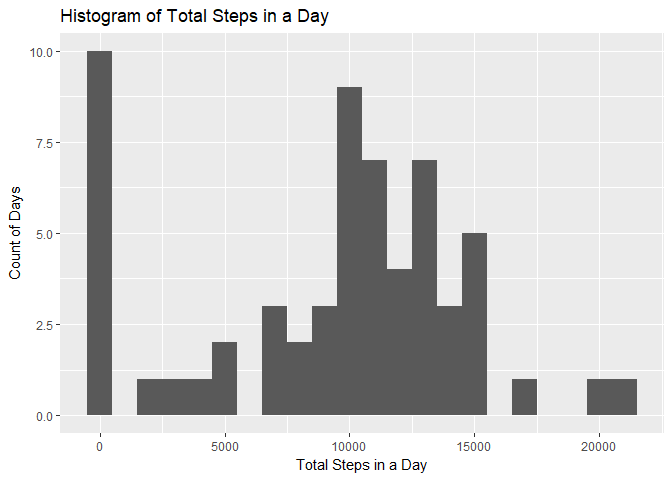
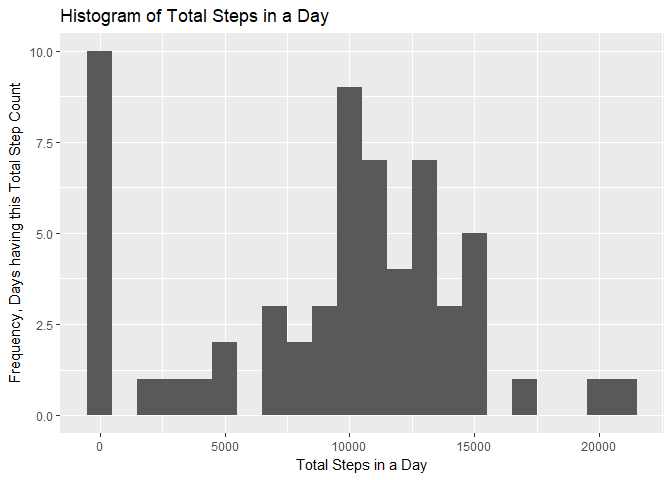
final commit
minor changes

Changed region(s): [[0.0, 0.1562, 0.0312, 0.8125]]

diff --git a/PA1_julieb.html b/PA1_julieb.html
@@ -152,10 +152,10 @@ names(sumsdf)&lt;- c(&quot;sums&quot;)
 c&lt;-ggplot(sumsdf, aes(sums))
 d&lt;- c+ geom_histogram(binwidth = 1000)
 d&lt;- d+ labs(x= &quot;Total Steps in a Day&quot;)
-d&lt;- d+ labs(y= &quot;Count of Days&quot;)
+d&lt;- d+ labs(y= &quot;Frequency, Days having this Total Step Count&quot;)
 d&lt;- d+ labs(title= &quot;Histogram of Total Steps in a Day&quot;)
 print(d)</code></pre>
[2 lines of base64/hex data omitted]
 <pre class="r"><code># report the summary of the daily totals
 summary(sumsdf)</code></pre>
 <pre><code>##       sums      
@@ -170,7 +170,7 @@ summary(sumsdf)</code></pre>
 <h2>What is the average daily activity pattern?</h2>
 <p>Sum the number of steps at each 5-minute interval across all days to see high activity periods. Make a time series plot of the 5-minute interval (x-axis) and the average number of steps taken, averaged across all days (y-axis).</p>
 <pre class="r"><code>#The steps per 5-minute interval are calculated.
-sm1&lt;- with(actdata, tapply(steps,interval,sum, na.rm=TRUE))
+sm1&lt;- with(actdata, tapply(steps,interval,mean, na.rm=TRUE))
 intsdf&lt;-data.frame(sm1)
 names(intsdf)&lt;- c(&quot;sums&quot;)
 intsdf&lt;- mutate(intsdf,minutes = 5*(1:nrow(intsdf)),interval = as.numeric(rownames(intsdf)))</code></pre>
@@ -181,7 +181,7 @@ d&lt;- d+ labs(x= &quot;Time of Day, minutes&quot;)
 d&lt;- d+ labs(y= &quot;Total Steps during an Interval&quot;)
 d&lt;- d+ labs(title= &quot;Daily Activity&quot;)
 print(d)</code></pre>
[2 lines of base64/hex data omitted]
 <pre class="r"><code>maxmin&lt;-with(intsdf, intsdf[which(sums == max(sums)),2])
 maxint&lt;-with(intsdf, intsdf[which(sums == max(sums)),3])</code></pre>
 <p>The 5-minute interval where the maximum average number of steps are taken is Interval: 835, (520 minutes).</p>
@@ -223,10 +223,10 @@ names(sumsdf)&lt;- c(&quot;sums&quot;)
 c&lt;-ggplot(sumsdf, aes(sums))
 d&lt;- c+ geom_histogram(binwidth = 1000)
 d&lt;- d+ labs(x= &quot;Total Steps in a Day&quot;)
-d&lt;- d+ labs(y= &quot;Count of Days&quot;)
+d&lt;- d+ labs(y= &quot;Frequency, Days having this Total Step Count&quot;)
 d&lt;- d+ labs(title= &quot;Histogram of Total Steps in a Day (NAs replaced with Interval Mean Value&quot;)
 print(d)</code></pre>
[2 lines of base64/hex data omitted]
 <pre class="r"><code># report the summary of the daily totals
 summary(sumsdf)</code></pre>
 <pre><code>##       sums      

diff --git a/PA1_julieb.md b/PA1_julieb.md
@@ -54,7 +54,7 @@ names(sumsdf)<- c("sums")
 c<-ggplot(sumsdf, aes(sums))
 d<- c+ geom_histogram(binwidth = 1000)
 d<- d+ labs(x= "Total Steps in a Day")
-d<- d+ labs(y= "Count of Days")
+d<- d+ labs(y= "Frequency, Days having this Total Step Count")
 d<- d+ labs(title= "Histogram of Total Steps in a Day")
 print(d)
 ```
@@ -83,7 +83,7 @@ and the average number of steps taken, averaged across all days (y-axis).
 
 ```r
 #The steps per 5-minute interval are calculated.
-sm1<- with(actdata, tapply(steps,interval,sum, na.rm=TRUE))
+sm1<- with(actdata, tapply(steps,interval,mean, na.rm=TRUE))
 intsdf<-data.frame(sm1)
 names(intsdf)<- c("sums")
 intsdf<- mutate(intsdf,minutes = 5*(1:nrow(intsdf)),interval = as.numeric(rownames(intsdf)))
@@ -162,7 +162,7 @@ names(sumsdf)<- c("sums")
 c<-ggplot(sumsdf, aes(sums))
 d<- c+ geom_histogram(binwidth = 1000)
 d<- d+ labs(x= "Total Steps in a Day")
-d<- d+ labs(y= "Count of Days")
+d<- d+ labs(y= "Frequency, Days having this Total Step Count")
 d<- d+ labs(title= "Histogram of Total Steps in a Day (NAs replaced with Interval Mean Value")
 print(d)
 ```
